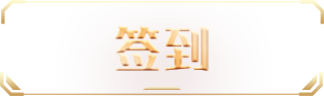
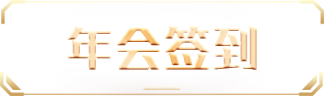
更换签到按钮

Changed region(s): [[0.1852, 0.25, 0.8025, 0.75], [0.3704, 0.9688, 0.6481, 1.0], [0.4321, 0.9062, 0.5556, 0.9375]]

diff --git a/src/checkin/view/checkinpage/checkform.less b/src/checkin/view/checkinpage/checkform.less
@@ -39,7 +39,7 @@
     width:100%;
     overflow: hidden;
     .checkin-container{
-      width:48%;
+      width:43.2%;
       margin: 0 auto;
       .checkinbtn{
         display: block;
